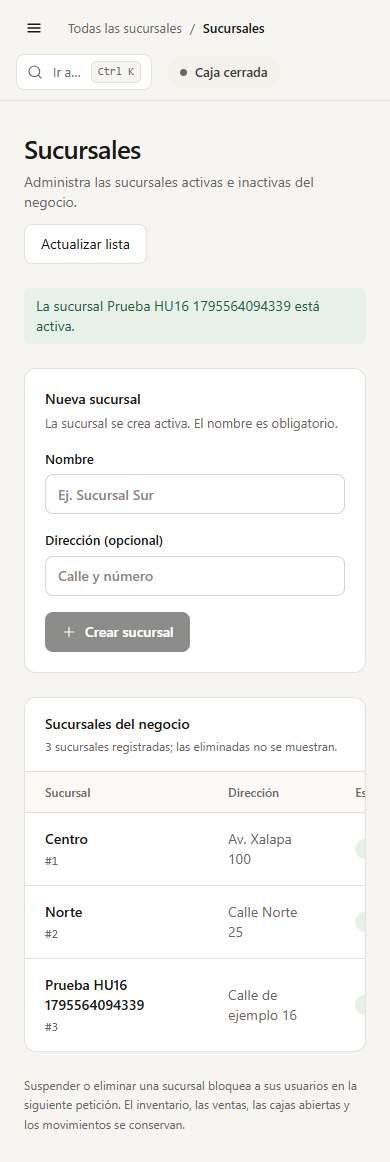
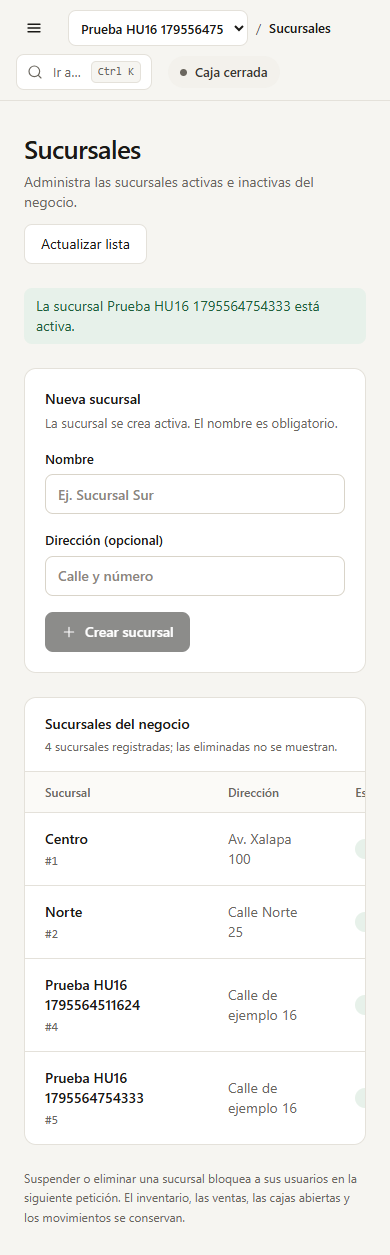
fix(sucursales): integra gestión global con selector del jefe [HU-16]

diff --git a/apps/web/src/components/Layout.tsx b/apps/web/src/components/Layout.tsx
@@ -39,6 +39,10 @@ const iniciales = (nombre: string) =>
     .join('')
 
 const EVENTO_CAJA = 'abarrotes:caja'
+const EVENTO_SUCURSALES = 'abarrotes:sucursales'
+
+/** HU-16: refresca las sucursales activas después de gestionar una sucursal. */
+export const avisarCambioSucursales = () => window.dispatchEvent(new Event(EVENTO_SUCURSALES))
 
 /** Avisa al indicador de la barra superior que la caja se abrió o se cerró. */
 export const avisarCambioCaja = () => window.dispatchEvent(new Event(EVENTO_CAJA))
@@ -71,6 +75,12 @@ function useSucursalJefe(esJefe: boolean) {
   const [elegida, setElegida] = useState<number | null>(null)
   const [error, setError] = useState('')
   const vaciarCarrito = useCarrito((s) => s.vaciar)
+  const [version, setVersion] = useState(0)
+  useEffect(() => {
+    const actualizar = () => setVersion((v) => v + 1)
+    window.addEventListener(EVENTO_SUCURSALES, actualizar)
+    return () => window.removeEventListener(EVENTO_SUCURSALES, actualizar)
+  }, [])
 
   useEffect(() => {
     if (!esJefe) return
@@ -84,6 +94,8 @@ function useSucursalJefe(esJefe: boolean) {
         if (!vigente) return
         const id = sucursalInicial(lista, guardada)
         if (id !== null) sucursalStore.set(id)
+        if (guardada !== id) vaciarCarrito()
+        setError('')
         setSucursales(lista)
         setElegida(id)
       })
@@ -95,7 +107,7 @@ function useSucursalJefe(esJefe: boolean) {
       vigente = false
       if (sucursalStore.get() === null && guardada !== null) sucursalStore.set(guardada)
     }
-  }, [esJefe])
+  }, [esJefe, version, vaciarCarrito])
 
   function elegir(id: number) {
     sucursalStore.set(id)
@@ -113,6 +125,7 @@ export function Layout() {
   const [paleta, setPaleta] = useState(false)
   const [menuMovil, setMenuMovil] = useState(false)
   const esJefe = usuario?.rol === 'JEFE'
+  const gestionSucursales = pathname.replace(/\/+$/, '') === '/sucursales'
   const sucursal = useSucursalJefe(esJefe)
   useTeclado()
   const abiertaDesde = useCajaAbierta(pathname, sucursal.elegida)
@@ -182,10 +195,12 @@ export function Layout() {
               sucursal.sucursales && (
                 <select
                   aria-label="Sucursal"
+                  disabled={sucursal.sucursales.length === 0}
                   value={sucursal.elegida ?? ''}
                   onChange={(e) => sucursal.elegir(Number(e.target.value))}
                   className="h-9 max-w-[180px] rounded-lg border border-linea bg-superficie px-2 text-[13px] font-medium text-tinta"
                 >
+                  {sucursal.sucursales.length === 0 && <option value="">Sin sucursales activas</option>}
                   {sucursal.sucursales.map((s) => (
                     <option key={s.id} value={s.id}>
                       {s.nombre}
@@ -213,9 +228,9 @@ export function Layout() {
         </header>
 
         <main id="contenido" tabIndex={-1} className="min-w-0 flex-1 outline-none">
-          {!esJefe || sucursal.elegida !== null ? (
+          {gestionSucursales || !esJefe || sucursal.elegida !== null ? (
             // La clave recarga la pantalla con los datos de la sucursal elegida.
-            <div key={sucursal.elegida ?? 'propia'} className="h-full">
+            <div key={gestionSucursales ? 'sucursales' : sucursal.elegida ?? 'propia'} className="h-full">
               <Outlet />
             </div>
           ) : (

diff --git a/apps/api/src/middleware/auth.ts b/apps/api/src/middleware/auth.ts
@@ -27,23 +27,30 @@ function autenticar(req: Request): UsuarioToken {
   }
 }
 
-/** Exige sesión y un rol mínimo. Uso: router.get('/', requireRol('ADMIN'), handler) */
-export function requireRol(minimo: Rol) {
+/** Exige sesión y rol mínimo. false omite solo la selección del jefe en rutas globales;
+ * el bloqueo de los usuarios de sucursales inactivas se verifica siempre. */
+export function requireRol(minimo: Rol, validarSucursalElegida = true) {
   return async (req: Request, _res: Response, next: NextFunction) => {
     const usuario = autenticar(req)
-    if (NIVEL[usuario.rol] < NIVEL[minimo]) throw new AppError(403, 'No tienes permiso para esta acción')
+    if (NIVEL[usuario.rol] < NIVEL[minimo])
+      throw new AppError(403, 'No tienes permiso para esta acción')
     // HU-14 CA4: la sucursal que indica el jefe debe existir.
-    if (usuario.rol === 'JEFE' && req.query.sucursalId !== undefined) {
+    if (validarSucursalElegida && usuario.rol === 'JEFE' && req.query.sucursalId !== undefined) {
       const id = Number(req.query.sucursalId)
       const valido = Number.isInteger(id) && id > 0 && id <= 2147483647
       const sucursal =
-        valido && (await prisma.sucursal.findFirst({ where: { id, estado: { not: 'ELIMINADO' } }, select: { id: true } }))
+        valido &&
+        (await prisma.sucursal.findFirst({
+          where: { id, estado: { not: 'ELIMINADO' } },
+          select: { id: true },
+        }))
       if (!sucursal) throw new AppError(404, 'Sucursal no encontrada')
     }
     // HU-16: consultar el estado actual impide usar un JWT anterior a la suspensión.
     if (usuario.sucursalId !== null) {
       const sucursal = await prisma.sucursal.findUnique({
-        where: { id: usuario.sucursalId }, select: { estado: true },
+        where: { id: usuario.sucursalId },
+        select: { estado: true },
       })
       if (!sucursal || sucursal.estado !== 'ACTIVO') {
         throw new AppError(403, 'Tu sucursal no está activa. Contacta al jefe.')

diff --git a/apps/api/src/modules/sucursales/sucursales.test.ts b/apps/api/src/modules/sucursales/sucursales.test.ts
@@ -26,6 +26,36 @@ describe('HU-16 gestión de sucursales', () => {
   const cambiar = (id: number, estado: string) =>
     request(app).patch(`/api/sucursales/${id}`).set(api()).send({ estado })
 
+  it('la gestión global funciona con una selección inexistente o eliminada', async () => {
+    const p = await nueva()
+    await request(app).delete(`/api/sucursales/${p.id}`).set(api())
+    for (const id of [p.id, 2147483647]) {
+      expect((await request(app).get(`/api/auth/me?sucursalId=${id}`).set(api())).status).toBe(200)
+      expect((await request(app).get(`/api/sucursales?sucursalId=${id}`).set(api())).status).toBe(
+        200,
+      )
+      const nuevaSucursal = await request(app)
+        .post(`/api/sucursales?sucursalId=${id}`)
+        .set(api())
+        .send({ nombre: 'HU16 Gestión global' })
+      expect(nuevaSucursal.status).toBe(201)
+      expect(
+        (
+          await request(app)
+            .patch(`/api/sucursales/${nuevaSucursal.body.id}?sucursalId=${id}`)
+            .set(api())
+            .send({ estado: 'SUSPENDIDO' })
+        ).status,
+      ).toBe(200)
+      expect(
+        (
+          await request(app)
+            .delete(`/api/sucursales/${nuevaSucursal.body.id}?sucursalId=${id}`)
+            .set(api())
+        ).status,
+      ).toBe(200)
+    }
+  })
   it('CA1: el jefe crea una sucursal activa con nombre y dirección normalizados', async () => {
     const res = await request(app)
       .post('/api/sucursales')

diff --git a/apps/web/src/features/sucursales/SucursalesPage.tsx b/apps/web/src/features/sucursales/SucursalesPage.tsx
@@ -1,5 +1,6 @@
 import { useEffect, useRef, useState, type FormEvent } from 'react'
 import { api, ApiError } from '../../api/client'
+import { avisarCambioSucursales } from '../../components/Layout'
 import { Icono } from '../../components/Icono'
 import {
   Aviso,
@@ -77,6 +78,7 @@ export function SucursalesPage() {
         direccion: direccion.trim(),
       })
       setSucursales((lista) => ordenar([...lista, nueva]))
+      avisarCambioSucursales()
       setNombre('')
       setDireccion('')
       setAviso({ tipo: 'ok', texto: `Se creó la sucursal ${nueva.nombre}.` })
@@ -97,6 +99,7 @@ export function SucursalesPage() {
         estado: suspender ? 'SUSPENDIDO' : 'ACTIVO',
       })
       setSucursales((lista) => lista.map((s) => (s.id === sucursal.id ? actualizada : s)))
+      avisarCambioSucursales()
       setAviso({
         tipo: 'ok',
         texto: `La sucursal ${sucursal.nombre} está ${suspender ? 'suspendida' : 'activa'}.`,
@@ -114,6 +117,7 @@ export function SucursalesPage() {
     void ejecutar(async () => {
       await api.delete(`/sucursales/${sucursal.id}`)
       setSucursales((lista) => lista.filter((s) => s.id !== sucursal.id))
+      avisarCambioSucursales()
       setAviso({
         tipo: 'ok',
         texto: `Se eliminó la sucursal ${sucursal.nombre}. Sus datos e historial se conservan.`,

diff --git a/apps/api/src/modules/sucursales/sucursales.routes.ts b/apps/api/src/modules/sucursales/sucursales.routes.ts
@@ -9,7 +9,8 @@ import {
 import * as sucursales from './sucursales.service'
 
 export const sucursalesRoutes = Router()
-sucursalesRoutes.use(requireRol('JEFE'))
+// Gestión global: no depende de que la sucursal elegida siga activa o exista.
+sucursalesRoutes.use(requireRol('JEFE', false))
 sucursalesRoutes.get('/', async (req, res) => {
   const { estado } = listarSucursalesSchema.parse(req.query)
   res.json(await sucursales.listar(estado))

diff --git a/apps/api/src/modules/auth/auth.routes.ts b/apps/api/src/modules/auth/auth.routes.ts
@@ -10,6 +10,7 @@ authRoutes.post('/login', async (req, res) => {
   res.json(await auth.login(usuario, password))
 })
 
-authRoutes.get('/me', requireRol('CAJERO'), async (req, res) => {
+// El perfil es global; una selección obsoleta no debe cerrar la sesión del jefe.
+authRoutes.get('/me', requireRol('CAJERO', false), async (req, res) => {
   res.json(await auth.yo(req.usuario!.id))
 })

diff --git a/docs/scrum/dailies/2026-11-24.md b/docs/scrum/dailies/2026-11-24.md
@@ -8,8 +8,10 @@ Sprint 4 — día 9 de 14. Registro asíncrono de Miguel Angel Marcelo Taracena;
 |---|---|---|---|
 | Luis David Sosa Fernández | | | |
 | Gonzalo Mendoza Herrera | | | |
-| Miguel Angel Marcelo Taracena | Implementé HU-16: API de sucursales (T-28), bloqueo de sesiones de sucursal inactiva (T-29) y pantalla del jefe (T-30), con 23 pruebas nuevas y evidencia de escritorio/móvil. | Enviar el PR a Sosa y atender su revisión; demostrar alta, suspensión, reactivación y borrado lógico. | Sin dudas de alcance abiertas: confirmé bloqueo en la siguiente petición y conservación de cajas abiertas. La primera ejecución agotó límites de tiempo del equipo; la repetición completa de API pasó con un margen de 20 s. |
+| Miguel Angel Marcelo Taracena | Implementé HU-16: API de sucursales (T-28), bloqueo de sesiones de sucursal inactiva (T-29) y pantalla del jefe (T-30), con 24 pruebas nuevas y evidencia de escritorio/móvil. | Enviar el PR a Sosa y atender su revisión; demostrar alta, suspensión, reactivación y borrado lógico. | Sin dudas de alcance abiertas: confirmé bloqueo en la siguiente petición y conservación de cajas abiertas. La primera ejecución agotó límites de tiempo del equipo; la repetición completa de API pasó con un margen de 20 s. |
 
-**Verificación:** 31 pruebas web y 186 API aprobadas; revisión de tipos y estilo correcta. Flujo probado en navegador, incluidos cancelar confirmaciones, recarga, error/reintento y permisos.
+**Verificación:** 34 pruebas web y 195 API aprobadas; revisión de tipos y estilo correcta. Flujo probado en navegador, incluidos cancelar confirmaciones, recarga, error/reintento y permisos.
 
 HU-16 sigue pendiente de revisión e integración; sus 8 puntos no se cuentan como terminados hasta que Sosa integre el PR. El backlog y el burndown los actualiza Sosa.
+
+Compatibilidad comprobada con HU-14 integrado durante la sesión: selector sincronizado, recuperación de selección guardada inexistente y gestión accesible sin sucursales activas.
